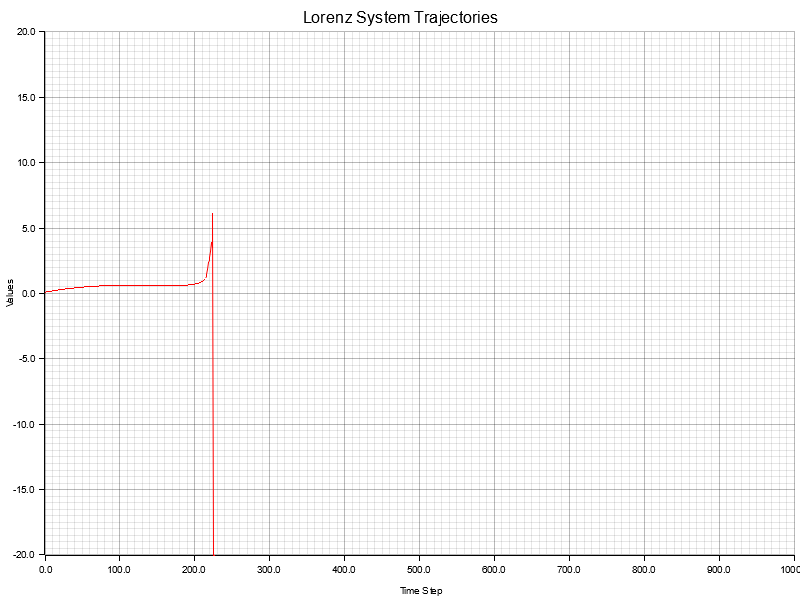
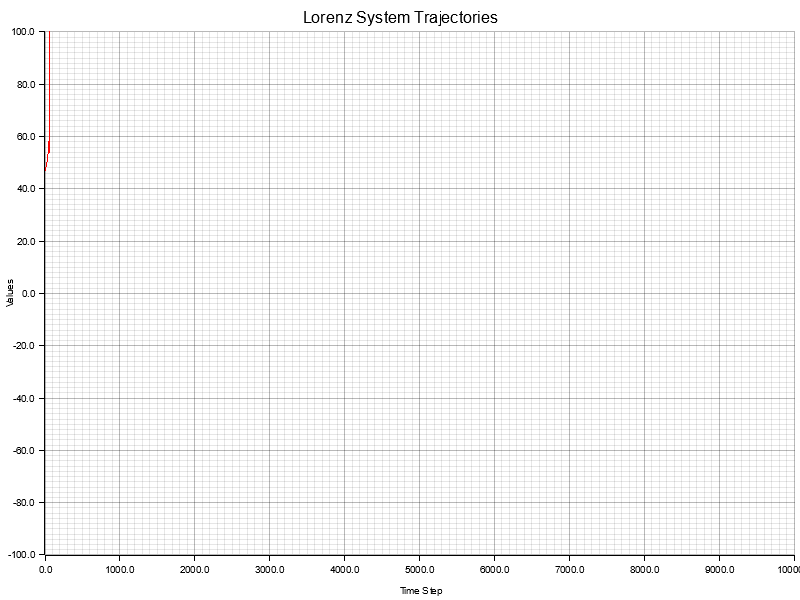
testing and debugging random models

Changed region(s): [[0.0, 0.06, 1.0, 0.96], [0.0, 0.03, 0.0625, 0.06]]

diff --git a/src/double_pendulum/mod.rs b/src/double_pendulum/mod.rs
@@ -39,7 +39,9 @@ pub mod double_pendulum {
             }
         }
 
-        /// Generates a Double Pendulum model with random attributes
+        /// Generates a Double Pendulum model with random attributes.
+        /// 
+        /// Be careful! Creating a random model will almost always have unpredicatable and faulty behavior.
         /// 
         /// *Params
         /// 
@@ -56,6 +58,12 @@ pub mod double_pendulum {
             let theta2: f64 = rng.gen_range(min_value..max_value);
             let omega1: f64 = rng.gen_range(min_value..max_value);
             let omega2: f64 = rng.gen_range(min_value..max_value);
+
+            println!("Creating random Double Pendulum model");
+            println!("Theta 1: {}", theta1);
+            println!("Theta 2: {}", theta2);
+            println!("Omega 1: {}", omega1);
+            println!("Omega 2: {}", omega2);
 
             DoublePendulum {
                 initial_theta_1: theta1,
@@ -100,8 +108,14 @@ pub mod double_pendulum {
                 omega2 = omega2 + alpha2 * self.dt;
                 theta1 = theta1 + omega1 * self.dt;
                 theta2 = theta2 + omega2 * self.dt;
-            }
 
+                //println!("Theta 1: {}", theta1);
+                //println!("Theta 2: {}", theta2);
+                //println!("Omega 1: {}", omega1);
+                //println!("Omega 2: {}", omega2);
+            }
+            //println!("Theta 1 Values: {:?}", theta1_values);
+            //println!("Theta 2 Values: {:?}", theta2_values);
             (theta1_values, theta2_values)
         }
 
@@ -115,7 +129,7 @@ pub mod double_pendulum {
                 .margin(5)
                 .x_label_area_size(40)
                 .y_label_area_size(40)
-                .build_cartesian_2d(0.0..self.steps as f64, -20.0..20.0)
+                .build_cartesian_2d(0.0..self.steps as f64, -100.0..100.0)
                 .unwrap();
 
             chart

diff --git a/src/main.rs b/src/main.rs
@@ -19,15 +19,7 @@ fn main() {
     let ls_trajectories: (Vec<f64>, Vec<f64>, Vec<f64>) = ls.simulate();
     ls.display(ls_trajectories);
 
-    let mut dp: DoublePendulum = DoublePendulum::new(
-        0.1,
-        0.1,
-        10.0,
-        0.0,
-        0.001,
-        9.81,
-        1000
-    );
+    let mut dp: DoublePendulum = DoublePendulum::new_random(0.001, 9.81, 10000);
     let dp_trajectories: (Vec<f64>, Vec<f64>) = dp.simulate();
     dp.display(dp_trajectories);
 }
